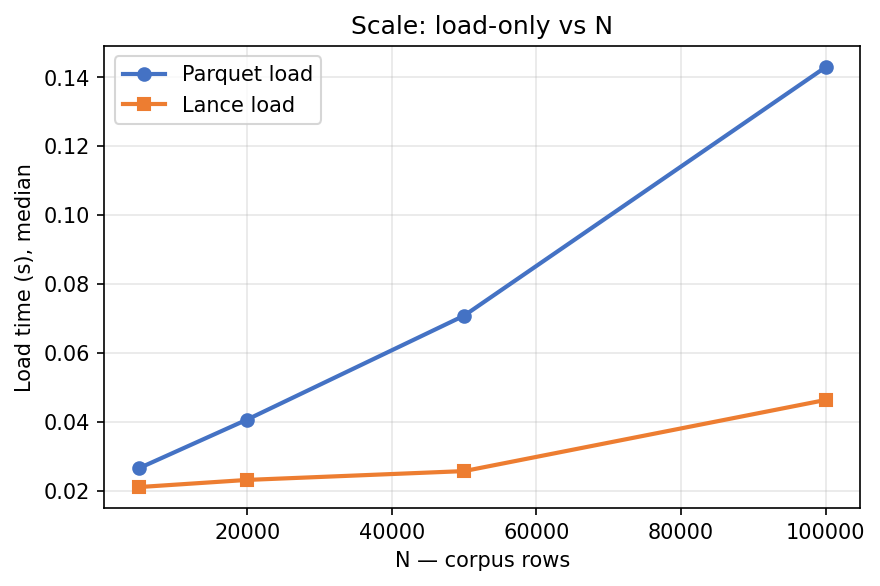
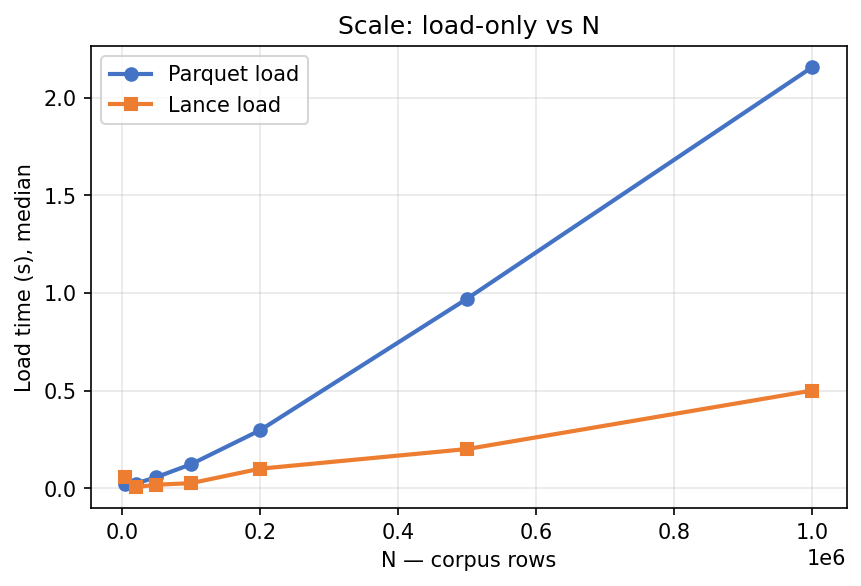
docs: refresh plots and report from full 15-scenario sweep
Regenerated PNGs and benchmark-report.md from lance-bench sweep (trials=1,
--no-profile) including scale through N=1M. RSS-specific PNGs unchanged when
disk space blocked a profiled re-run.

Made-with: Cursor

diff --git a/doc/reports/benchmark-report.md b/doc/reports/benchmark-report.md
@@ -1,59 +1,64 @@
 # Parquet vs Lance — sweep benchmark
 
-> **Snapshot:** Generated from `lance-bench sweep` and copied here for version control. Raw rows live in `results/sweep.json` (gitignored by default). Re-run: `lance-bench sweep` then `lance-bench report`, or see [Sweep and report](../sweep-and-report.md).
-
-- **Generated:** 2026-03-23 23:57 UTC
+- **Generated:** 2026-03-24 01:49 UTC
 - **Platform:** `Darwin 24.6.0` (arm64)
 - **Python:** `3.10.15`
-- **Trials per scenario:** 2
+- **Trials per scenario (inner):** 1
+- **Sweep repeats (outer):** 1
+- **Per-cell timing:** **median** over **1** inner trial(s) in a single sweep pass.
 - **Sweep mode:** full
 
 ## What was compared
 
-Each scenario loads the full corpus from **Parquet** vs **Lance** into a dense `float32` matrix, then runs the **same** batched L2 brute-force kNN. Metrics are wall time: **load**, **search**, **total** (median over trials).
+Each scenario loads the full corpus from **Parquet** vs **Lance** into a dense `float32` matrix, then runs the **same** batched L2 brute-force kNN. Wall-time columns are **load**, **search**, **total** (see header above for median vs mean±stdev).
 
 **Interpretation:** Differences in **search** time should be small (same NumPy kernel). Differences in **load** reflect PyArrow Parquet decode vs Lance scan/materialization in this harness (local disk, warm-ish cache after first touch in a trial sequence).
 
-## Results (median over trials)
+**On-disk size:** Parquet = `corpus.parquet` file size; Lance = sum of file sizes under the LanceDB directory (fragments + sidecars). Comparable logical row counts, different physical layout and compression.
+
+## Results
 
 ### Scale
 
-| Scenario | N | d | Q | k | Pq load | L load | Pq search | L search | Pq total | L total | Load L/P | Total L/P |
-| --- | ---: | ---: | ---: | ---: | ---: | ---: | ---: | ---: | ---: | ---: | ---: | ---: |
-| `scale_n5000_d128_nq256_k10` | 5000 | 128 | 256 | 10 | 0.0055 | 0.0025 | 0.0085 | 0.0084 | 0.0140 | 0.0110 | 0.46× | 0.78× |
-| `scale_n20000_d128_nq256_k10` | 20000 | 128 | 256 | 10 | 0.0215 | 0.0057 | 0.0484 | 0.0470 | 0.0699 | 0.0526 | 0.26× | 0.75× |
-| `scale_n50000_d128_nq256_k10` | 50000 | 128 | 256 | 10 | 0.0559 | 0.0120 | 0.1089 | 0.1041 | 0.1648 | 0.1161 | 0.21× | 0.70× |
-| `scale_n100000_d128_nq256_k10` | 100000 | 128 | 256 | 10 | 0.1151 | 0.0222 | 0.2351 | 0.2438 | 0.3501 | 0.2660 | 0.19× | 0.76× |
+| Scenario | N | d | Q | k | Pq load | L load | Pq search | L search | Pq total | L total | Load L/P | Total L/P | Pq disk (MiB) | L disk (MiB) | Disk L/P |
+| --- | ---: | ---: | ---: | ---: | ---: | ---: | ---: | ---: | ---: | ---: | ---: | ---: | ---: | ---: | ---: |
+| `scale_n5000_d128_nq256_k10` | 5000 | 128 | 256 | 10 | 0.0240 | 0.0595 | 0.0187 | 0.0111 | 0.0427 | 0.0705 | 2.48× | 1.65× | 2.9 | 9.9 | 3.47× |
+| `scale_n20000_d128_nq256_k10` | 20000 | 128 | 256 | 10 | 0.0241 | 0.0060 | 0.0558 | 0.0503 | 0.0799 | 0.0564 | 0.25× | 0.71× | 9.7 | 39.7 | 4.10× |
+| `scale_n50000_d128_nq256_k10` | 50000 | 128 | 256 | 10 | 0.0569 | 0.0182 | 0.1199 | 0.1095 | 0.1768 | 0.1277 | 0.32× | 0.72× | 23.3 | 99.2 | 4.26× |
+| `scale_n100000_d128_nq256_k10` | 100000 | 128 | 256 | 10 | 0.1229 | 0.0261 | 0.2522 | 0.2212 | 0.3751 | 0.2473 | 0.21× | 0.66× | 46.0 | 148.8 | 3.23× |
+| `scale_n200000_d128_nq256_k10` | 200000 | 128 | 256 | 10 | 0.2968 | 0.1000 | 0.6024 | 0.5746 | 0.8993 | 0.6746 | 0.34× | 0.75× | 91.3 | 297.6 | 3.26× |
+| `scale_n500000_d128_nq256_k10` | 500000 | 128 | 256 | 10 | 0.9705 | 0.2008 | 1.7097 | 2.0810 | 2.6802 | 2.2818 | 0.21× | 0.85× | 227.0 | 743.9 | 3.28× |
+| `scale_n1000000_d128_nq256_k10` | 1000000 | 128 | 256 | 10 | 2.1559 | 0.5003 | 4.3154 | 3.8542 | 6.4713 | 4.3545 | 0.23× | 0.67× | 453.1 | 1487.8 | 3.28× |
 
 ### Dimension
 
-| Scenario | N | d | Q | k | Pq load | L load | Pq search | L search | Pq total | L total | Load L/P | Total L/P |
-| --- | ---: | ---: | ---: | ---: | ---: | ---: | ---: | ---: | ---: | ---: | ---: | ---: |
-| `dim_d128_n50k_nq256_k10` | 50000 | 128 | 256 | 10 | 0.0557 | 0.0102 | 0.1186 | 0.1074 | 0.1743 | 0.1176 | 0.18× | 0.67× |
-| `dim_d384_n50k_nq256_k10` | 50000 | 384 | 256 | 10 | 0.1848 | 0.0343 | 0.1413 | 0.1479 | 0.3261 | 0.1823 | 0.19× | 0.56× |
-| `dim_d768_n50k_nq256_k10` | 50000 | 768 | 256 | 10 | 0.4272 | 0.0821 | 0.1686 | 0.1844 | 0.5957 | 0.2664 | 0.19× | 0.45× |
+| Scenario | N | d | Q | k | Pq load | L load | Pq search | L search | Pq total | L total | Load L/P | Total L/P | Pq disk (MiB) | L disk (MiB) | Disk L/P |
+| --- | ---: | ---: | ---: | ---: | ---: | ---: | ---: | ---: | ---: | ---: | ---: | ---: | ---: | ---: | ---: |
+| `dim_d128_n50k_nq256_k10` | 50000 | 128 | 256 | 10 | 0.1075 | 0.0242 | 0.1110 | 0.1045 | 0.2185 | 0.1286 | 0.22× | 0.59× | 23.3 | 99.2 | 4.26× |
+| `dim_d384_n50k_nq256_k10` | 50000 | 384 | 256 | 10 | 0.1722 | 0.0254 | 0.1423 | 0.1428 | 0.3145 | 0.1683 | 0.15× | 0.54× | 68.4 | 147.3 | 2.15× |
+| `dim_d768_n50k_nq256_k10` | 50000 | 768 | 256 | 10 | 0.3762 | 0.0501 | 0.1748 | 0.1720 | 0.5510 | 0.2221 | 0.13× | 0.40× | 136.1 | 293.7 | 2.16× |
 
 ### Queries
 
-| Scenario | N | d | Q | k | Pq load | L load | Pq search | L search | Pq total | L total | Load L/P | Total L/P |
-| --- | ---: | ---: | ---: | ---: | ---: | ---: | ---: | ---: | ---: | ---: | ---: | ---: |
-| `queries_n50k_nq64_k10` | 50000 | 128 | 64 | 10 | 0.0580 | 0.0164 | 0.0281 | 0.0285 | 0.0861 | 0.0448 | 0.28× | 0.52× |
-| `queries_n50k_nq256_k10` | 50000 | 128 | 256 | 10 | 0.0483 | 0.0098 | 0.1022 | 0.0993 | 0.1505 | 0.1091 | 0.20× | 0.72× |
-| `queries_n50k_nq1024_k10` | 50000 | 128 | 1024 | 10 | 0.0486 | 0.0109 | 0.5180 | 0.4935 | 0.5666 | 0.5044 | 0.22× | 0.89× |
+| Scenario | N | d | Q | k | Pq load | L load | Pq search | L search | Pq total | L total | Load L/P | Total L/P | Pq disk (MiB) | L disk (MiB) | Disk L/P |
+| --- | ---: | ---: | ---: | ---: | ---: | ---: | ---: | ---: | ---: | ---: | ---: | ---: | ---: | ---: | ---: |
+| `queries_n50k_nq64_k10` | 50000 | 128 | 64 | 10 | 0.0512 | 0.0110 | 0.0315 | 0.0292 | 0.0827 | 0.0402 | 0.22× | 0.49× | 23.3 | 99.2 | 4.26× |
+| `queries_n50k_nq256_k10` | 50000 | 128 | 256 | 10 | 0.0537 | 0.0101 | 0.1470 | 0.1102 | 0.2006 | 0.1203 | 0.19× | 0.60× | 23.3 | 99.2 | 4.26× |
+| `queries_n50k_nq1024_k10` | 50000 | 128 | 1024 | 10 | 0.0546 | 0.0109 | 0.5656 | 0.4494 | 0.6202 | 0.4603 | 0.20× | 0.74× | 23.3 | 99.2 | 4.26× |
 
 ### K
 
-| Scenario | N | d | Q | k | Pq load | L load | Pq search | L search | Pq total | L total | Load L/P | Total L/P |
-| --- | ---: | ---: | ---: | ---: | ---: | ---: | ---: | ---: | ---: | ---: | ---: | ---: |
-| `k_n50k_nq256_k10` | 50000 | 128 | 256 | 10 | 0.0501 | 0.0099 | 0.1015 | 0.1000 | 0.1516 | 0.1099 | 0.20× | 0.72× |
-| `k_n50k_nq256_k50` | 50000 | 128 | 256 | 50 | 0.0469 | 0.0097 | 0.1000 | 0.0987 | 0.1469 | 0.1084 | 0.21× | 0.74× |
+| Scenario | N | d | Q | k | Pq load | L load | Pq search | L search | Pq total | L total | Load L/P | Total L/P | Pq disk (MiB) | L disk (MiB) | Disk L/P |
+| --- | ---: | ---: | ---: | ---: | ---: | ---: | ---: | ---: | ---: | ---: | ---: | ---: | ---: | ---: | ---: |
+| `k_n50k_nq256_k10` | 50000 | 128 | 256 | 10 | 0.0494 | 0.0113 | 0.1064 | 0.1070 | 0.1558 | 0.1183 | 0.23× | 0.76× | 23.3 | 99.2 | 4.26× |
+| `k_n50k_nq256_k50` | 50000 | 128 | 256 | 50 | 0.0500 | 0.0098 | 0.1018 | 0.0982 | 0.1518 | 0.1081 | 0.20× | 0.71× | 23.3 | 99.2 | 4.26× |
 
 ## Observations (this run)
 
-- **Load (Lance / Parquet)** across **scale** scenarios was **0.19×–0.46×** (always below 1 → Lance **faster** to materialize the matrix in this run, after local caching effects).
+- **Load (Lance / Parquet)** across **scale** scenarios spanned **0.21×–2.48×** (mixed; see table).
 - **Search** times should track query count and N×d multiply cost; small Lance vs Parquet spread is expected after both corpora are in RAM.
 - This harness measures **full materialization** + in-memory kNN, not Lance IVF/PQ ANN or streaming Parquet scans.
 
 ## Raw data
 
-See `results/sweep.json` (all trials) alongside this report.
+See `results/sweep.json` alongside this report.
